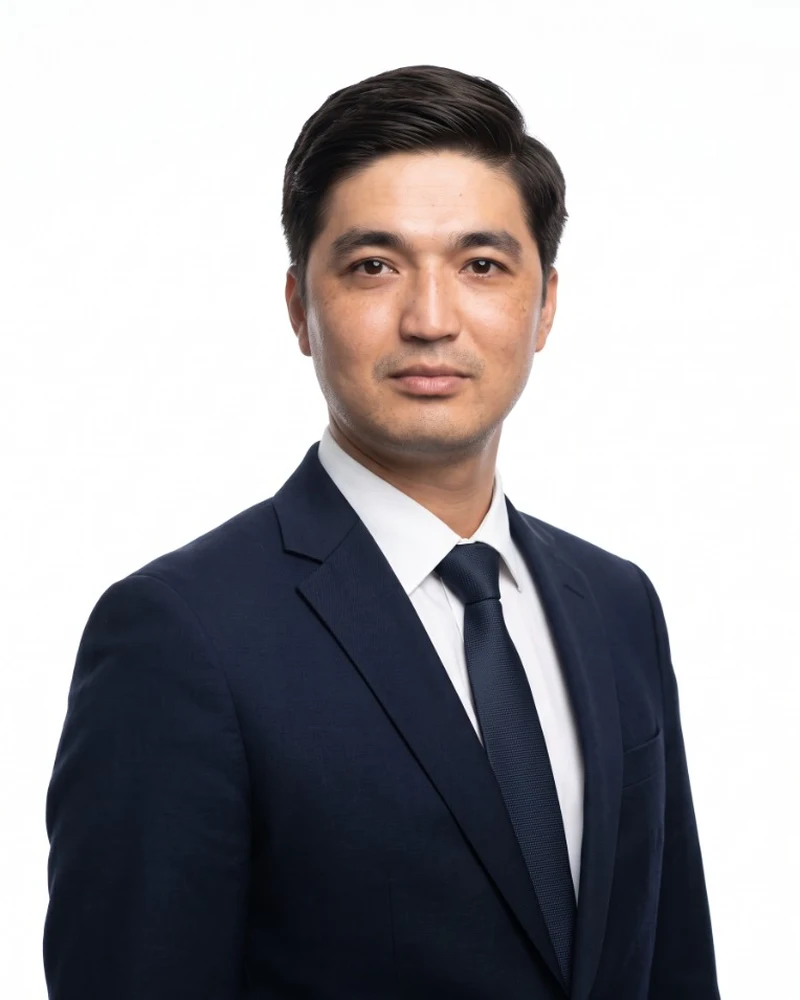
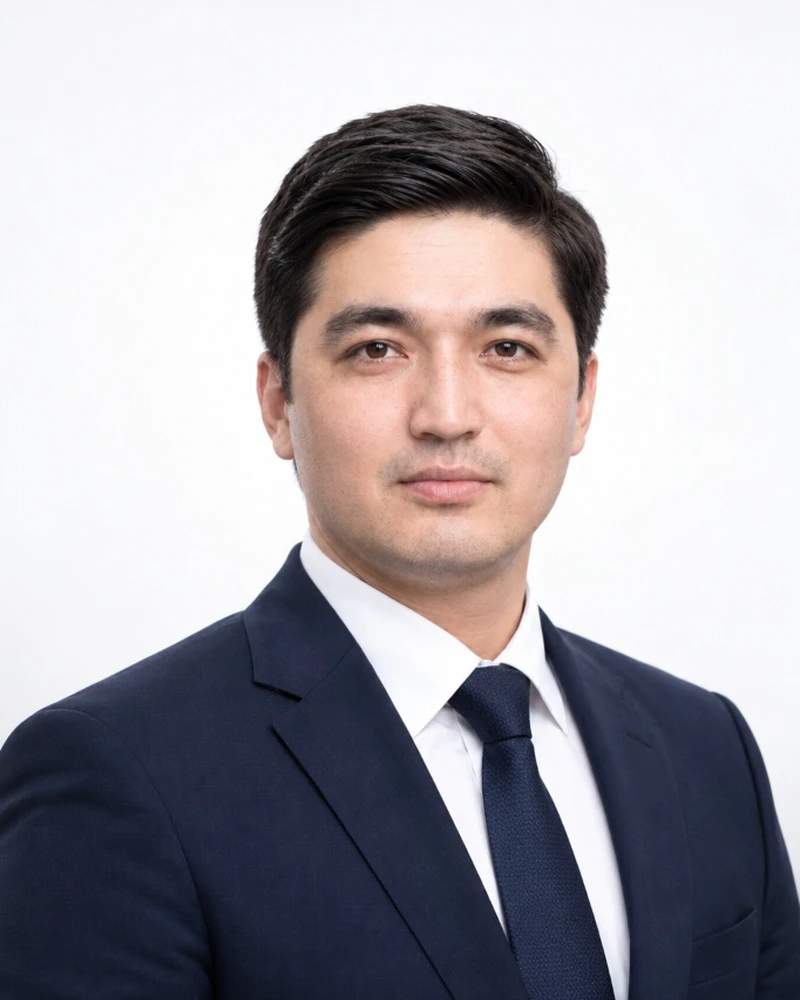
Asadbek Mamarasulov rasmi yangilandi

diff --git a/public/index.html b/public/index.html
@@ -782,7 +782,7 @@ ul,ol{margin:0;padding:0;list-style:none}
 }
 .founder-quote svg{width:26px;height:26px;color:var(--green);opacity:.3;margin-bottom:12px}
 .founder-sign{display:flex;align-items:center;gap:13px;margin-top:20px;padding-top:18px;border-top:1px solid var(--rule)}
-.fs-av{width:52px;height:52px;border-radius:50%;flex:none;border:2px solid var(--paper-2);box-shadow:var(--sh-1);background:url("images/team/asadbek-mamarasulov-avatar.webp?v=5") 50% 50% / cover no-repeat}
+.fs-av{width:52px;height:52px;border-radius:50%;flex:none;border:2px solid var(--paper-2);box-shadow:var(--sh-1);background:url("images/team/asadbek-mamarasulov-avatar.webp?v=6") 50% 50% / cover no-repeat}
 
 /* ============================================================
    checklists inside service cards + small annotated notes
@@ -2335,8 +2335,8 @@ input[type=range]:focus-visible{outline:2px solid var(--green-2);outline-offset:
     <ul class="team-grid">
       <li class="team-card rv" style="--d:0ms">
         <figure>
-          <img src="images/team/asadbek-mamarasulov-800.webp?v=5"
-               srcset="images/team/asadbek-mamarasulov-480.webp?v=5 480w, images/team/asadbek-mamarasulov-800.webp?v=5 800w"
+          <img src="images/team/asadbek-mamarasulov-800.webp?v=6"
+               srcset="images/team/asadbek-mamarasulov-480.webp?v=6 480w, images/team/asadbek-mamarasulov-800.webp?v=6 800w"
                sizes="(max-width: 900px) 46vw, 400px"
                width="800" height="1000" loading="lazy" decoding="async"
                alt="Asadbek Mamarasulov">
